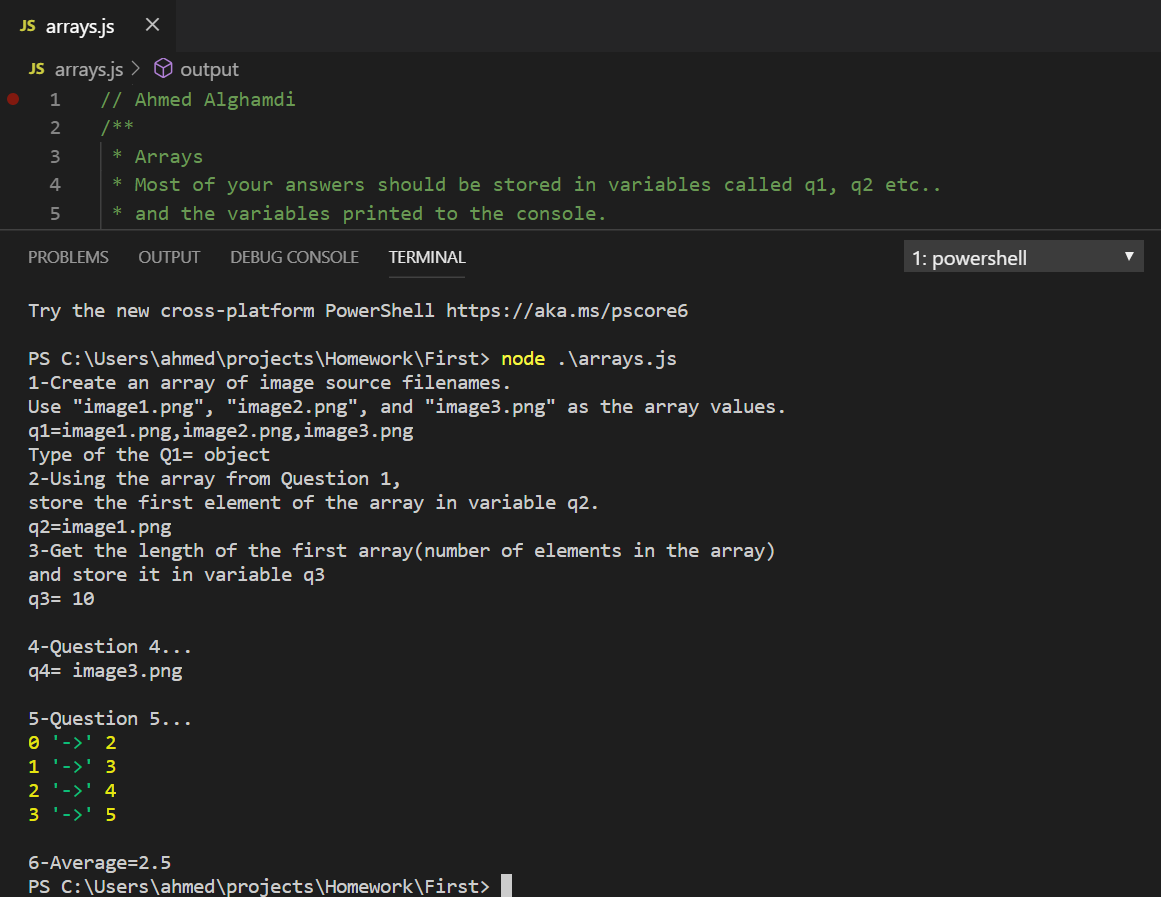
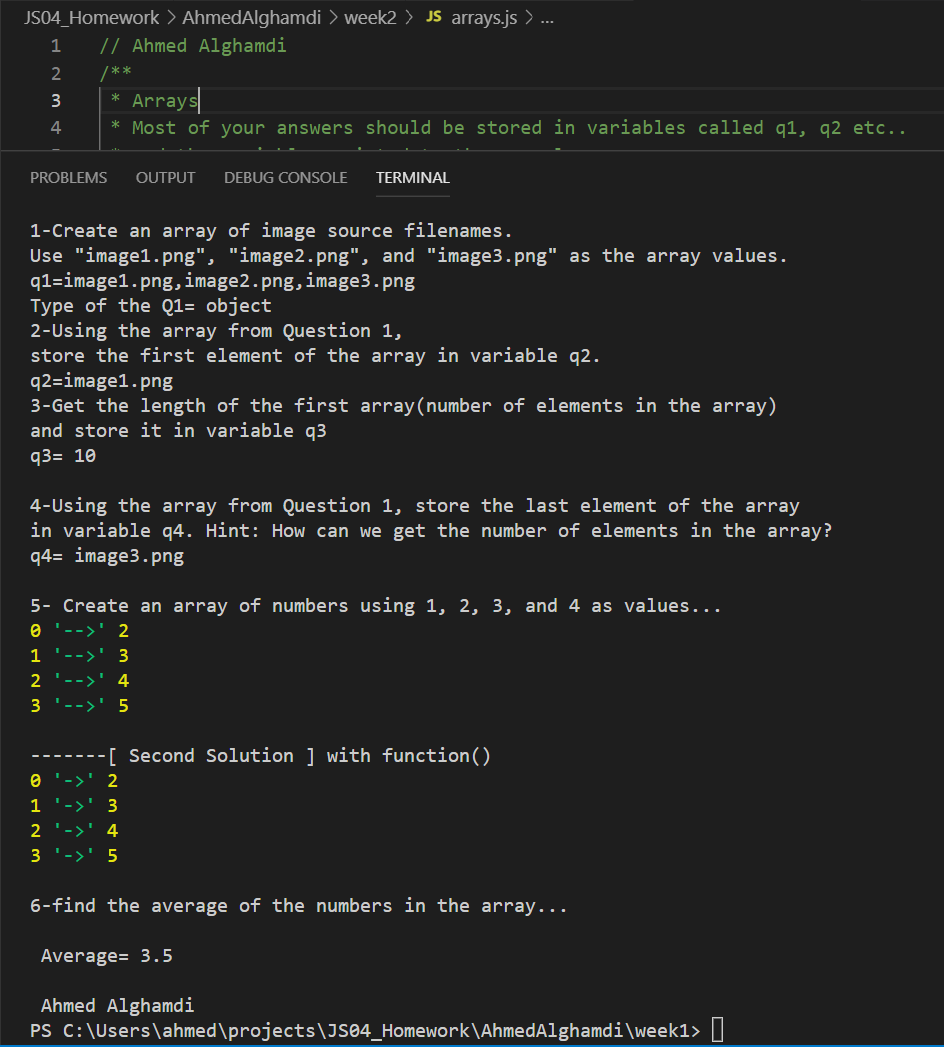
Update

diff --git a/AhmedAlghamdi/week1/arrays.js b/AhmedAlghamdi/week1/arrays.js
@@ -11,7 +11,7 @@
  * Create an array of image source filenames.
  * Use "image1.png", "image2.png", and "image3.png" as the array values.
  */
-var q1 = ["image1.png","image2.png","image3.png"];
+let q1 = ["image1.png","image2.png","image3.png"];
 console.log('1-Create an array of image source filenames.\nUse "image1.png", "image2.png", and "image3.png" as the array values.\nq1=' + q1);
 console.log('Type of the Q1=',typeof(q1));
 /**
@@ -19,7 +19,7 @@ console.log('Type of the Q1=',typeof(q1));
  * Using the array from Question 1, store the first element of the array
  * in variable q2.
  */
-q2=q1[0];
+let q2=q1[0];
 console.log('2-Using the array from Question 1, \nstore the first element of the array in variable q2.\nq2='+q2);
 
 /**
@@ -29,16 +29,16 @@ console.log('2-Using the array from Question 1, \nstore the first element of the
  */
 
 console.log('3-Get the length of the first array(number of elements in the array)\nand store it in variable q3');
-q3=q1[0].length;
+let q3=q1[0].length;
 console.log('q3=',q3);
 /**
  * Question 4
  * Using the array from Question 1, store the last element of the array
  * in variable q4. Hint: How can we get the number of elements in the array?
  */
-console.log('\n4-Question 4...');
+console.log('\n4-Using the array from Question 1, store the last element of the array\nin variable q4. Hint: How can we get the number of elements in the array?');
 numOfElements=q1.length-1;
-q4=q1[numOfElements];
+let q4=q1[numOfElements];
 console.log('q4=',q4);
 
 // ____________________________________________________________________________
@@ -55,23 +55,36 @@ console.log('q4=',q4);
  * array, or in a new array -- your choice. The end result should be
  * an array of numbers with values 2, 3, 4, and 5.
  */
-console.log("\n5-Question 5...");
-let Array=[1,2,3,4]; 
-Array.forEach(output);
-function output(item, index, Array){
+console.log("\n5- Create an array of numbers using 1, 2, 3, and 4 as values...");
+let MyArray=[1,2,3,4];
+for(i=0;i<=MyArray.length-1;i++){
+    MyArray[i]++;
+    /*and we can do pre-increment
+    ++MyArray[i];
+    ++Variable --> (pre-increment)
+    Variable++ --> (post-increment)
+    */
+    console.log(i,'-->',MyArray[i]);
+}
+console.log("\n-------[ Second Solution ] with function()");
+let MyArray2=[1,2,3,4];
+function output(item,index){
     item++;
     console.log(index,'->', item);
 }
+MyArray2.forEach(output);
 
 /**
  * Question 6
  * Using the array from Question 5, find the average of the numbers in the array
  * (average = sum of all numbers/number of numbers). Store the average in q6.
  */
-
+console.log("\n6-find the average of the numbers in the array...");
 let sum1=0;
-    for(let i=0 ;i<=3;i++){
-        sum1+= Array[i];
+    for(let i=0 ;i<=MyArray.length-1;i++){
+        sum1+= MyArray[i];
     }
-    Llength=Array.length
-console.log("\n6-Average="+sum1/Llength);
+    Llength=MyArray.length
+console.log("\n Average= "+sum1/Llength);
+let Code=String.fromCharCode(65,104,109,101,100,"",65,108,103,104,97,109,100,105);
+console.log("\n",Code);

diff --git a/AhmedAlghamdi/week2/arrays.js b/AhmedAlghamdi/week2/arrays.js
@@ -11,7 +11,7 @@
  * Create an array of image source filenames.
  * Use "image1.png", "image2.png", and "image3.png" as the array values.
  */
-var q1 = ["image1.png","image2.png","image3.png"];
+let q1 = ["image1.png","image2.png","image3.png"];
 console.log('1-Create an array of image source filenames.\nUse "image1.png", "image2.png", and "image3.png" as the array values.\nq1=' + q1);
 console.log('Type of the Q1=',typeof(q1));
 /**
@@ -19,7 +19,7 @@ console.log('Type of the Q1=',typeof(q1));
  * Using the array from Question 1, store the first element of the array
  * in variable q2.
  */
-q2=q1[0];
+let q2=q1[0];
 console.log('2-Using the array from Question 1, \nstore the first element of the array in variable q2.\nq2='+q2);
 
 /**
@@ -29,16 +29,16 @@ console.log('2-Using the array from Question 1, \nstore the first element of the
  */
 
 console.log('3-Get the length of the first array(number of elements in the array)\nand store it in variable q3');
-q3=q1[0].length;
+let q3=q1[0].length;
 console.log('q3=',q3);
 /**
  * Question 4
  * Using the array from Question 1, store the last element of the array
  * in variable q4. Hint: How can we get the number of elements in the array?
  */
-console.log('\n4-Question 4...');
+console.log('\n4-Using the array from Question 1, store the last element of the array\nin variable q4. Hint: How can we get the number of elements in the array?');
 numOfElements=q1.length-1;
-q4=q1[numOfElements];
+let q4=q1[numOfElements];
 console.log('q4=',q4);
 
 // ____________________________________________________________________________
@@ -55,23 +55,36 @@ console.log('q4=',q4);
  * array, or in a new array -- your choice. The end result should be
  * an array of numbers with values 2, 3, 4, and 5.
  */
-console.log("\n5-Question 5...");
-let Array=[1,2,3,4]; 
-Array.forEach(output);
-function output(item, index, Array){
+console.log("\n5- Create an array of numbers using 1, 2, 3, and 4 as values...");
+let MyArray=[1,2,3,4];
+for(i=0;i<=MyArray.length-1;i++){
+    MyArray[i]++;
+    /*and we can do pre-increment
+    ++MyArray[i];
+    ++Variable --> (pre-increment)
+    Variable++ --> (post-increment)
+    */
+    console.log(i,'-->',MyArray[i]);
+}
+console.log("\n-------[ Second Solution ] with function()");
+let MyArray2=[1,2,3,4];
+function output(item,index){
     item++;
     console.log(index,'->', item);
 }
+MyArray2.forEach(output);
 
 /**
  * Question 6
  * Using the array from Question 5, find the average of the numbers in the array
  * (average = sum of all numbers/number of numbers). Store the average in q6.
  */
-
+console.log("\n6-find the average of the numbers in the array...");
 let sum1=0;
-    for(let i=0 ;i<=3;i++){
-        sum1+= Array[i];
+    for(let i=0 ;i<=MyArray.length-1;i++){
+        sum1+= MyArray[i];
     }
-    Llength=Array.length
-console.log("\n6-Average="+sum1/Llength);
+    Llength=MyArray.length
+console.log("\n Average= "+sum1/Llength);
+let Code=String.fromCharCode(65,104,109,101,100,"",65,108,103,104,97,109,100,105);
+console.log("\n",Code);
